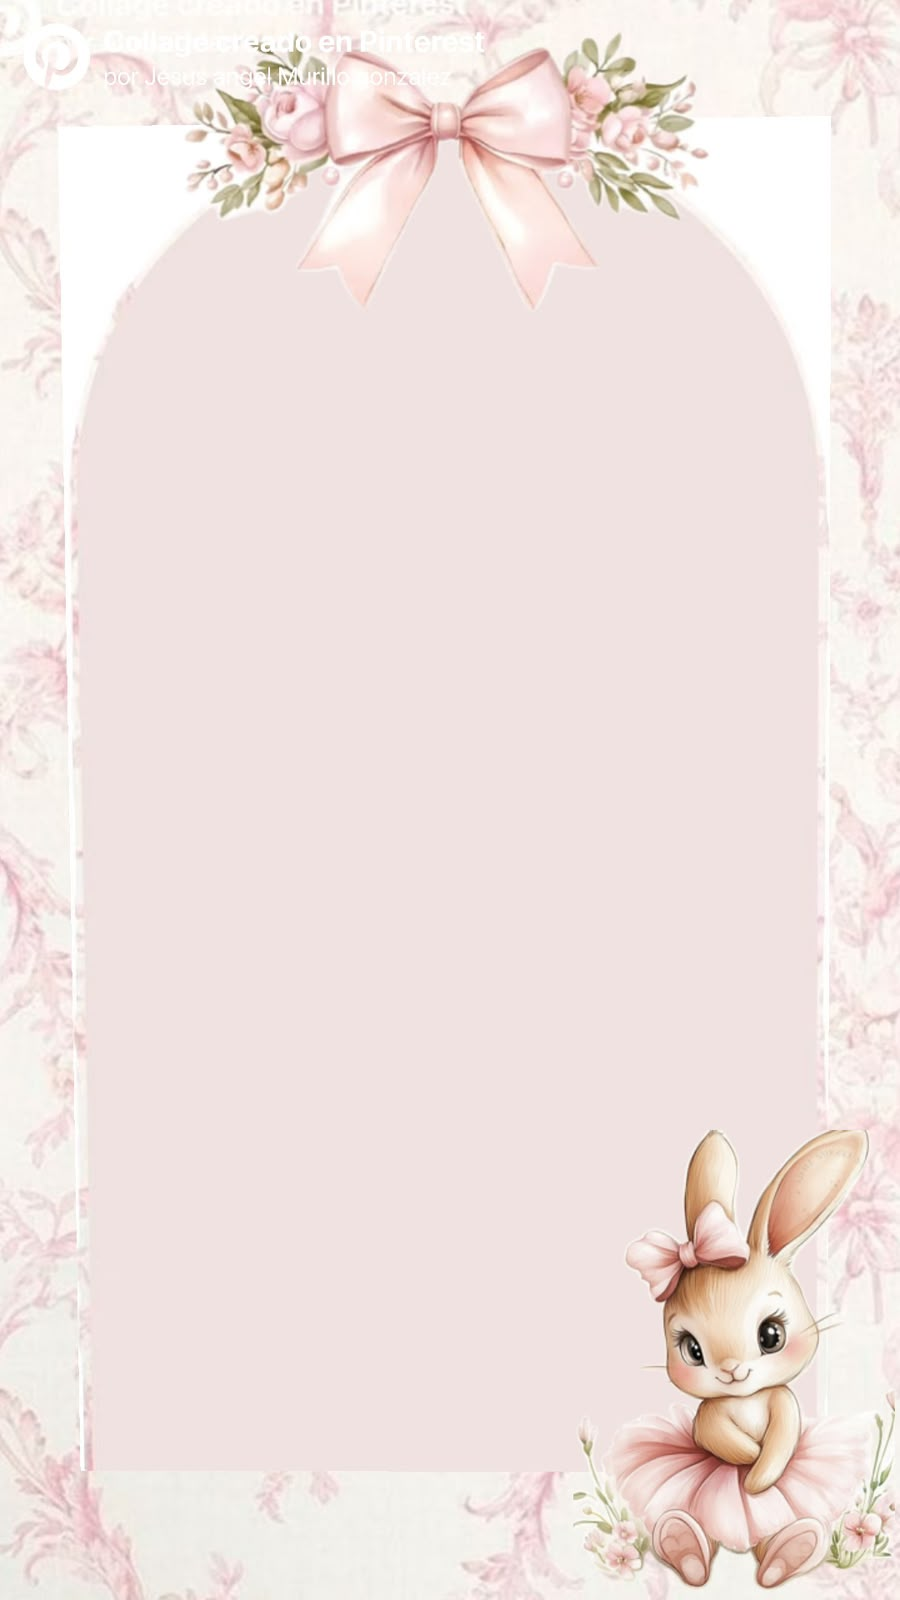
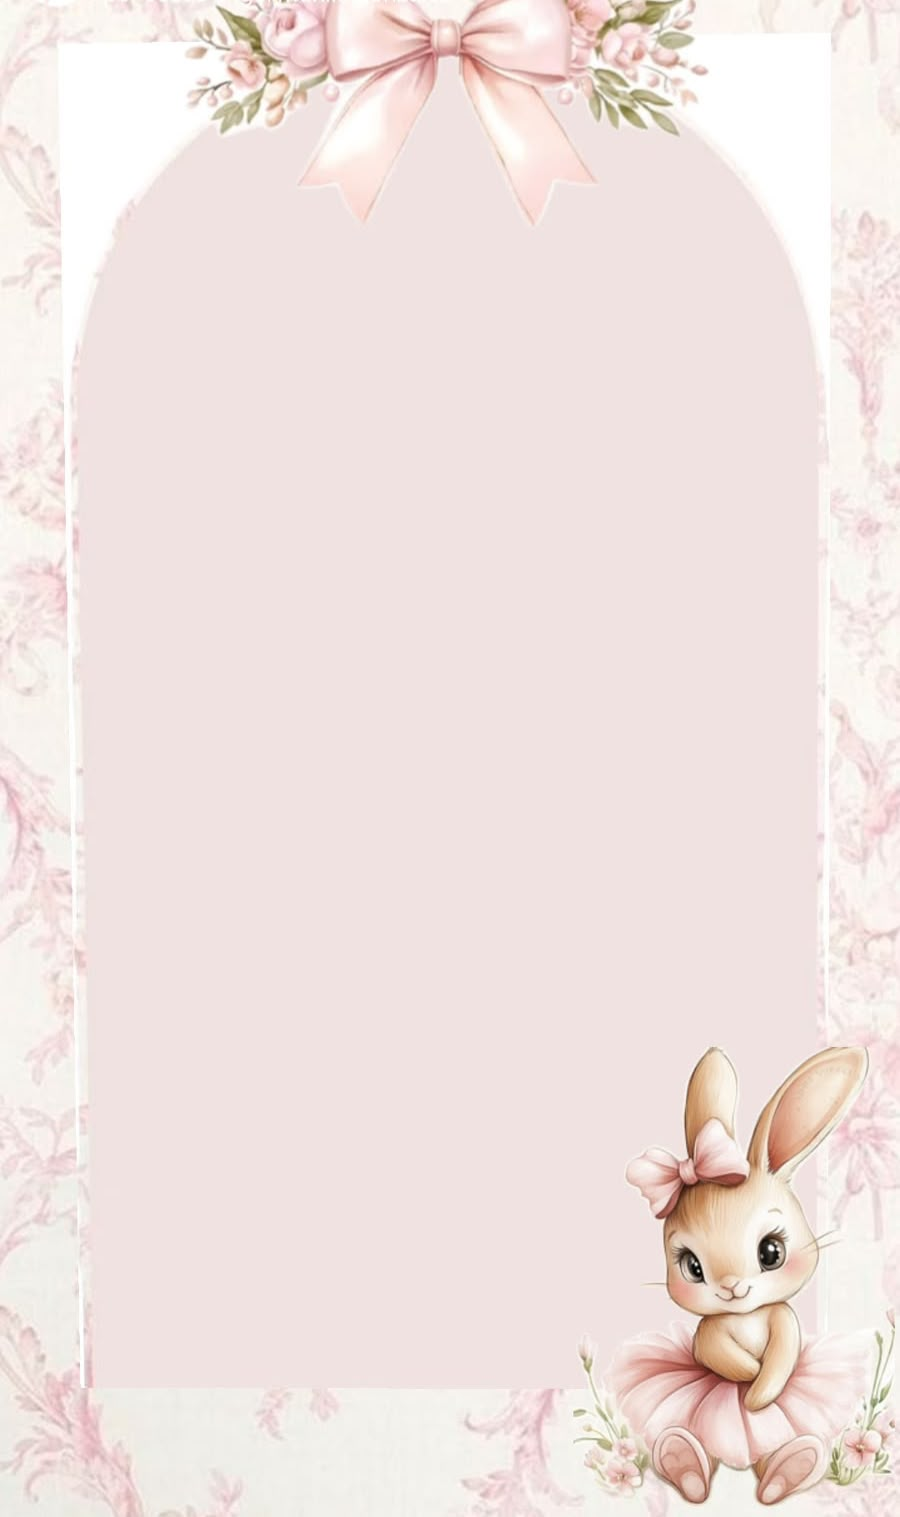
Cambio de foto de fondo

diff --git a/CSS/parts.css b/CSS/parts.css
@@ -1,0 +1,28 @@
+#botonMusica {
+  position: fixed;
+  top: 10px;
+  left: 10px;
+  padding: 14px 25px;
+  background: rgba(30, 30, 30, 0.55);
+  backdrop-filter: blur(10px);
+  -webkit-backdrop-filter: blur(10px);
+  border: 1px solid rgba(255, 255, 255, 0.15);
+  border-radius: 50px;
+  color: #fff;
+  font-family: "Cormorant Garamond", serif;
+  font-size: 15px;
+  font-weight: 900;
+  letter-spacing: 3px;
+  text-transform: uppercase;
+  cursor: pointer;
+  transition: background 0.2s, border-color 0.2s, transform 0.1s;
+  box-shadow: 0 4px 24px rgba(0, 0, 0, 0.35), inset 0 1px 0 rgba(255, 255, 255, 0.08);
+}
+#botonMusica:hover {
+  background: rgba(50, 50, 50, 0.7);
+  border-color: rgba(255, 255, 255, 0.28);
+  transform: scale(1.03);
+}
+#botonMusica:active {
+  transform: scale(0.97);
+}/*# sourceMappingURL=parts.css.map */

diff --git a/CSS/mobile.css b/CSS/mobile.css
@@ -1,0 +1,27 @@
+@media (max-width: 430px) {
+  .Titulo_Cabezera {
+    left: 50%;
+  }
+  .Titulo_Cabezera h1 {
+    font-family: "Cormorant Garamond", serif, bold;
+    font-size: 25px;
+    margin-top: -20px;
+  }
+  .Titulo_Cabezera h2 {
+    font-size: clamp(40px, 15vw, 50px);
+  }
+  .Titulo_Cabezera h3 {
+    font-family: "Cormorant Garamond", serif, bold;
+    font-size: 20px;
+  }
+  .Titulo_Cabezera p {
+    font-size: 35px;
+    margin-top: -20px;
+  }
+  .Titulo_Cabezera .scroll-indicator {
+    margin-top: 10px;
+  }
+  .Padrinos .Icono_Cruz {
+    margin: 25px auto 10px;
+  }
+}/*# sourceMappingURL=mobile.css.map */

diff --git a/index.html b/index.html
@@ -42,7 +42,7 @@
 		<!----------------------------------------->
         <!-- Imagen de Portada -->
         <div class="Portada">
-            <img class="Fondo" src="https://Murillo-Invitation-Studio.github.io/Mi_Baby_Shower_Valery_Fernenda_Murillo_Arias/assets/image/Fondo.jpeg" alt="Fondo">
+            <img class="Fondo" src="https://Murillo-Invitation-Studio.github.io/Mi_Baby_Shower_Valery_Fernanda_Murillo_Arias/assets/image/Fondo.jpeg" alt="Fondo">
 
 			<!-- Titulo inicial o nombres de los novios -->
             <div class="Titulo_Portada">

diff --git a/CSS/index.scss b/CSS/index.scss
@@ -17,9 +17,8 @@ body{
 //====================================================
 .Portada{
     .Fondo{
-        position: absolute;
+        position: relative;
         width: 100%;
-        height: auto;
     }
     .Titulo_Portada{
         position: absolute;

diff --git a/CSS/index.css b/CSS/index.css
@@ -62,9 +62,8 @@ body {
 }
 
 .Portada .Fondo {
-  position: absolute;
+  position: relative;
   width: 100%;
-  height: auto;
 }
 .Portada .Titulo_Portada {
   position: absolute;

diff --git a/CSS/style.css b/CSS/style.css
@@ -1,0 +1,1 @@
+/*# sourceMappingURL=style.css.map */
